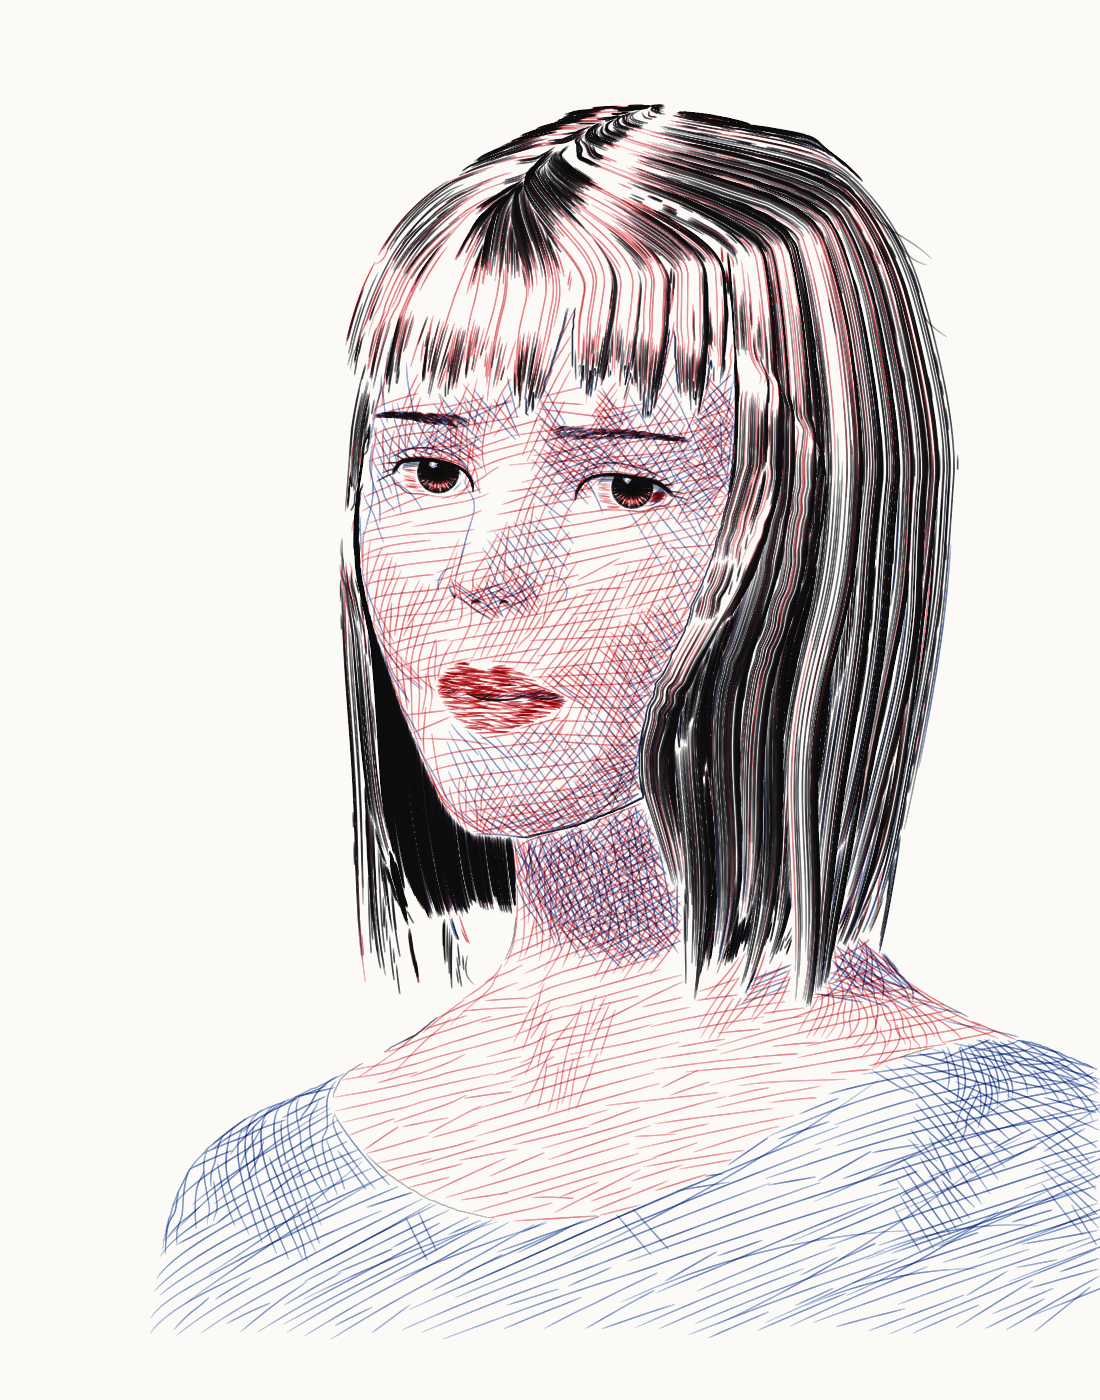
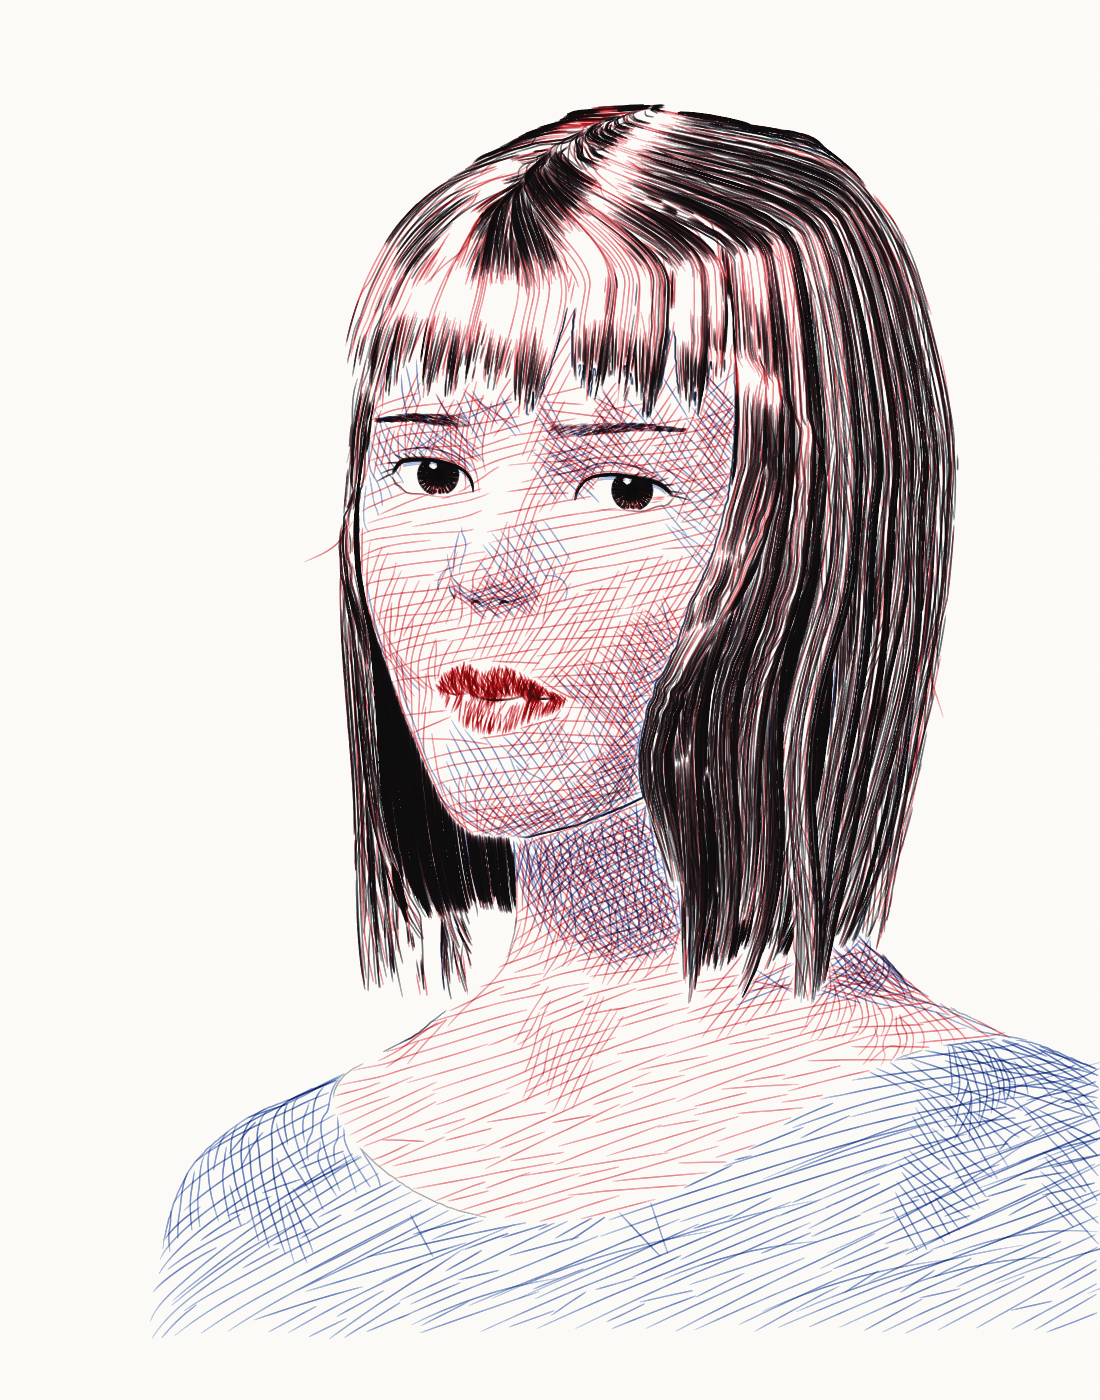
Portrait: third pen state (calmer brows and eyes, modelled lips, hair without stripes)
Also notes two findings from the drawings in the issues.

Claude-Session: https://claude.ai/code/session_01EHReoi1LTNPtq461jGULpV

Changed region(s): [[0.1236, 0.0614, 1.0, 0.9521]]

diff --git a/examples/portrait.py b/examples/portrait.py
@@ -1628,8 +1628,9 @@ class Eyes:
 
 
 def gaze(pose):
-    """The eyes look at the viewer, a touch less turned than that."""
-    return unit_rows(0.3 * pose.head_dir(np.array([0.0, 0.0, 1.0])) + 0.7 * VIEWER)
+    """The eyes look at the viewer, a little less turned than that."""
+    ahead = 0.3 * pose.head_dir(np.array([0.0, 0.0, 1.0])) + 0.7 * VIEWER
+    return unit_rows(ahead - [0.0, 0.07, 0.0])  # a touch down: calm, not pleading
 
 
 def iris_pattern(q, g, cos_i):
@@ -2556,6 +2557,10 @@ def eye_zones(local):
     rest = np.exp(-0.5 * (((x - 3.0) / 1.3) ** 2 + ((y - 1.55) / 0.55) ** 2))
     veil = np.exp(-0.5 * (((x - 2.9) / 1.3) ** 2 + ((y - 2.9) / 0.8) ** 2))
     temple = smoothstep(2.0, 3.5, local[..., 0]) * smoothstep(2.2, 3.4, y)
+    # and between the brows, where violet reads as a frown
+    temple = np.maximum(
+        temple, np.exp(-0.5 * ((local[..., 0] / 0.9) ** 2 + ((y - 4.2) / 0.7) ** 2))
+    )
     return rest, veil, temple
 
 
@@ -2640,10 +2645,10 @@ def feature_targets(m: Maps):
     S, lips, white = m.shade, m.part == P_LIPS, m.part == P_WHITE
     bare = 1 - smoothstep(0.03, 0.09, m.spec)
     upper = lips & (m.local[..., 1] > m.nose["stomion_y"])
-    red = np.where(lips, (0.1 + 0.1 * S) * (0.2 + 0.8 * bare), 0) + 0.09 * upper
+    red = np.where(lips, (0.1 + 0.1 * S) * (0.2 + 0.8 * bare), 0) + 0.045 * upper
     red = red + np.where(white, 0.06 * smoothstep(0.3, 0.8, S), 0)
     blue = np.where(white, 0.05 * smoothstep(0.4, 0.9, S), 0)
-    black = 0.03 * upper + np.where(lips, 0.02 * smoothstep(0.7, 1.0, S), 0)
+    black = 0.008 * upper
     return {"red": red, "blue": blue, "black": black}
 
 
@@ -2829,7 +2834,7 @@ def level_brow(line, arch=4.5):
     base = a + np.outer(t, [b[0] - a[0], 0.0])
     bump = np.exp(-0.5 * ((t - 0.64) / 0.26) ** 2)
     bump = bump - bump[0] * (1 - t)
-    lift = arch * bump / bump.max() + 1.2 * np.minimum(t / 0.5, 1.0)
+    lift = arch * bump / bump.max()
     return base - np.outer(lift, [0.0, 1.0])
 
 
@@ -2857,7 +2862,7 @@ def draw_brow(h: Hatcher, line, scale):
         k = brow_strength(t)
         pen = BLACK if rng.uniform() < 0.45 else (RED if rng.uniform() < 0.6 else BLUE)
         edge = 1 - abs(start_side) ** 2
-        p = (0.05 + 0.2 * k) * (0.5 + 0.5 * edge) * (0.55 + 0.45 * min(t / 0.3, 1))
+        p = (0.04 + 0.17 * k) * (0.5 + 0.5 * edge) * (0.55 + 0.45 * min(t / 0.3, 1))
         mid = start + d * ln / 2 + up * ln * 0.06
         h.sheet.stroke(
             [tuple(start), tuple(mid), tuple(start + d * ln)],
@@ -2882,7 +2887,7 @@ def draw_mouth(h: Hatcher):
         run = run - np.stack([0 * u, 4.0 * np.abs(u) ** 3], 1)  # the corners lift
         n = len(run)
         pen_line(h.sheet, run, BLACK, swell(0.05, 0.42, 0.5, 0.3), 1)
-        pen_line(h.sheet, run[n // 3 : -n // 3], BLACK, swell(0.1, 0.3, 0.5, 0.3), 1)
+        pen_line(h.sheet, run[n // 3 : -n // 3], BLACK, swell(0.15, 0.5, 0.5, 0.3), 1)
         pen_line(h.sheet, run + [0, -1.0], RED, swell(0.15, 0.45, 0.5, 0.2), 1)
 
 
@@ -2913,11 +2918,11 @@ class StrandInk:
 STRAND_INKS = [
     StrandInk(
         RED,
-        0.7,
+        0.4,
         lambda d: 0.2 + 0.8 * smoothstep(0.08, 0.3, d),
-        (0.25, 0.4),
+        (0.2, 0.32),
     ),
-    StrandInk(BLACK, 1.3, lambda d: 0.88 * smoothstep(0.3, 0.92, d) ** 1.2, (0.25, 0.6)),
+    StrandInk(BLACK, 1.3, lambda d: 0.88 * smoothstep(0.15, 0.85, d), (0.3, 0.6)),
     StrandInk(BLUE, 0.25, lambda d: smoothstep(0.78, 1.0, d), (0.3, 0.5)),
 ]
 
@@ -2975,11 +2980,16 @@ def draw_hair(h: Hatcher):
     middles, a few in the shine."""
     m, rng = h.maps, h.rng
     dark = hair_dark(m)
-    base = {"length": (150, 400), "count": (4, 9), "spacing": (3.0, 9.0), "by_lock": False}
+    base = {
+        "length": (150, 400),
+        "count": (4, 9),
+        "spacing": (3.0, 9.0),
+        "by_lock": False,
+    }
     hair = m.part == P_HAIR
-    red = np.where(hair, 0.07 * smoothstep(0.1, 0.3, dark), 0).astype(np.float32)
+    red = np.where(hair, 0.04 * smoothstep(0.1, 0.3, dark), 0).astype(np.float32)
     black = np.where(hair, 0.16 * smoothstep(0.4, 0.95, dark), 0).astype(np.float32)
-    h.lay(Pass(RED, P_HAIR, 0, 0.0, 0.07, 0.3, **base), red)
+    h.lay(Pass(RED, P_HAIR, 0, 0.0, 0.04, 0.25, **base), red)
     h.lay(Pass(BLACK, P_HAIR, 0, 0.0, 0.16, 0.35, **base), black)
     for k, grid in enumerate(m.strands):
         mid = to_pixels(VIEW, grid[grid.shape[0] // 2])
